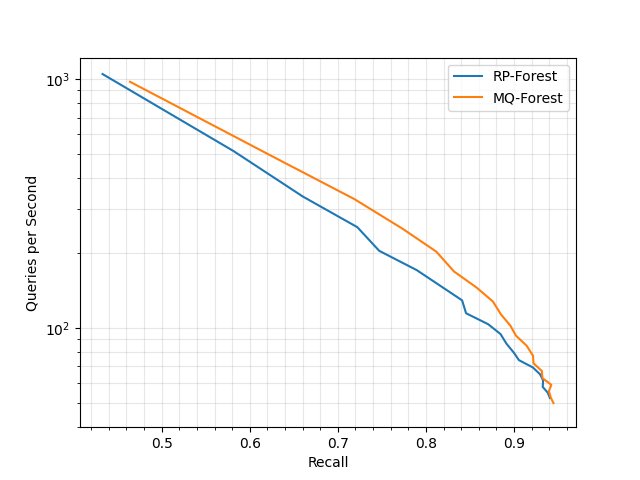
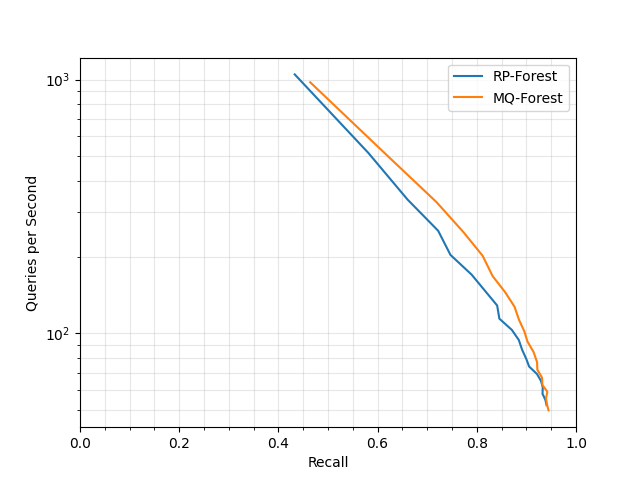
More graphs

diff --git a/redo_graph.py b/redo_graph.py
@@ -13,7 +13,9 @@ def save_graph(out_path, static_recalls, dynamic_recalls, static_times, dynamic_
     plt.grid(True, alpha=0.3, which='both')
     plt.minorticks_on()
     
-    plt.ylim(bottom=10**1.6)
+    # plt.ylim(bottom=10**1.3, top=10**3)
+    plt.xlim(left=0, right=1)
+
     
     plt.xlabel("Recall")
     plt.ylabel("Queries per Second")